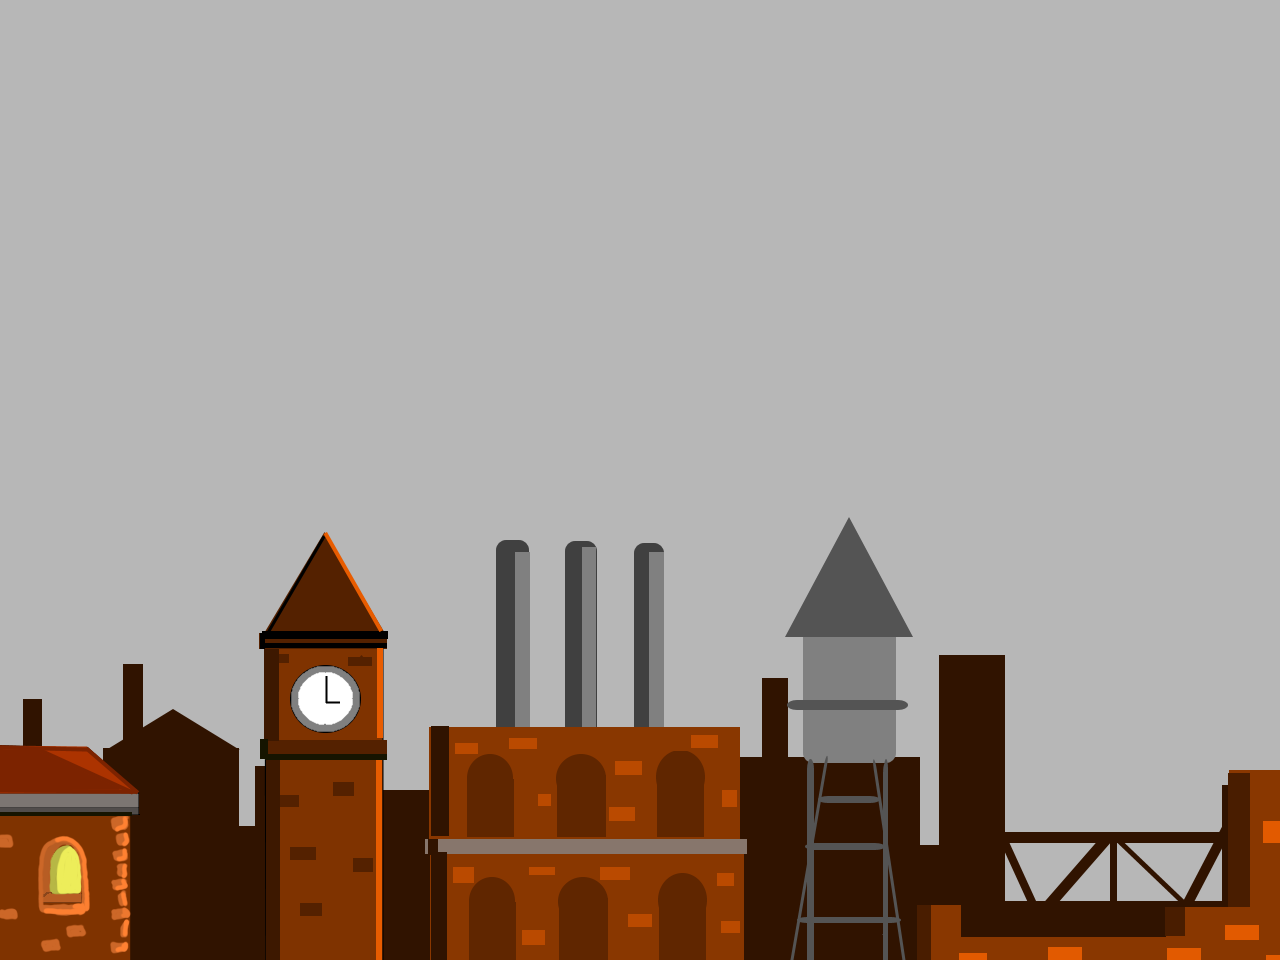
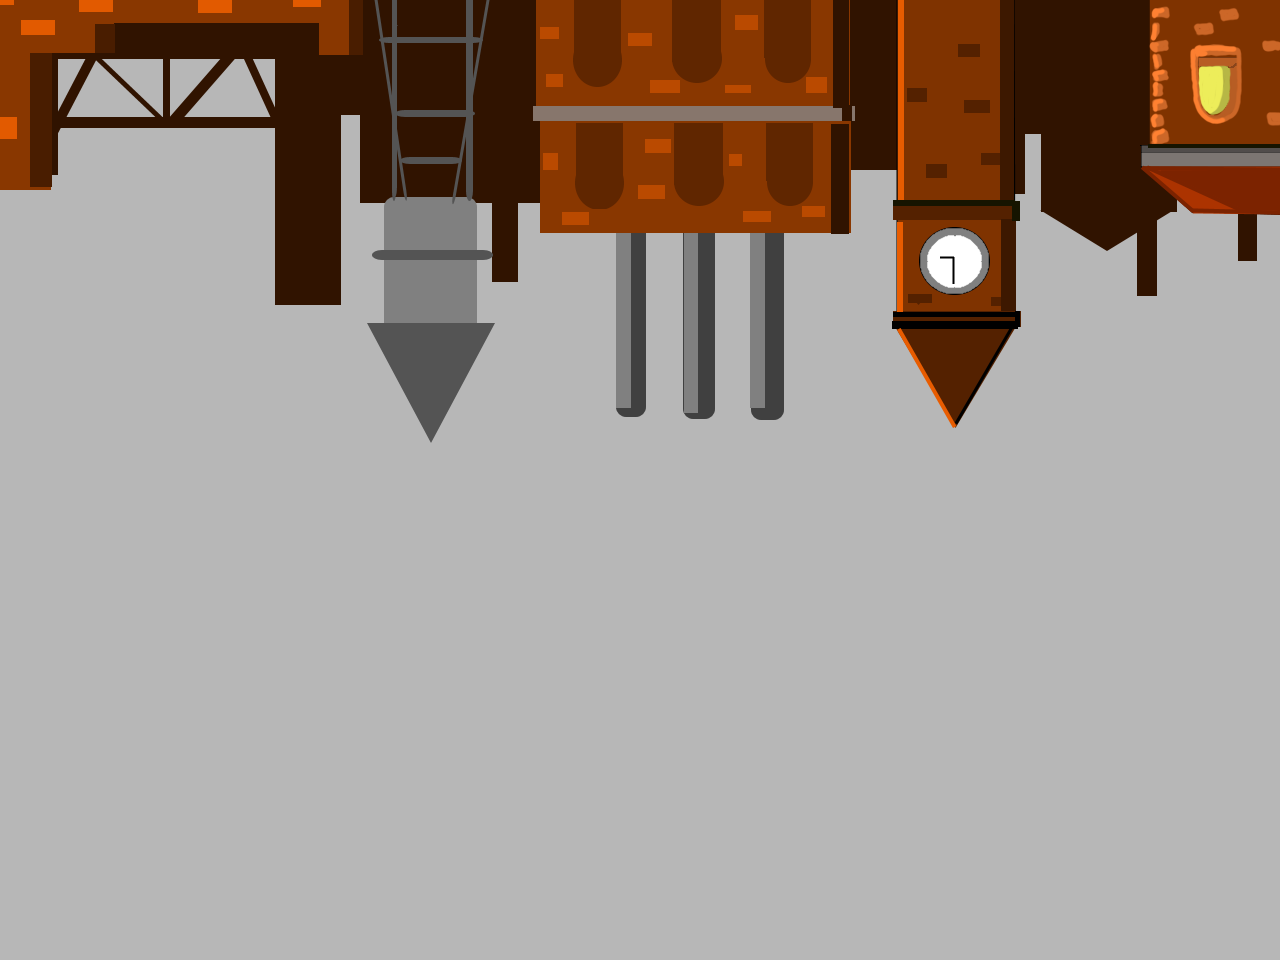
Add files missed in previous commit

diff --git a/Skystone/ScrollingSpriteRenderer.cpp b/Skystone/ScrollingSpriteRenderer.cpp
@@ -2,8 +2,7 @@
 #include "GameWindow.h"
 #include "GameConstants.h"
 #include "Log.h"
-#include <cmath>
-
+#include <algorithm>
 
 namespace
 {
@@ -25,23 +24,29 @@ namespace
 			return val + changeBy;
 	}
 
-	void modDrawRect(SDL_Rect* rect, int x_, int y_, int w_, int h_)
+	void modDrawRect(SDL_Rect* rect, int x_, int y_, int w_, int h_, int maxW)
 	{
-		rect->x = incWithinBound(rect->x, x_, Constants::SCREEN_WIDTH);
+		rect->x = incWithinBound(rect->x, x_, maxW);
 		rect->y = incWithinBound(rect->y, y_, Constants::SCREEN_HEIGHT);
-		rect->w = incWithinBound(rect->w, w_, Constants::SCREEN_WIDTH);
-		rect->h = incWithinBound(rect->h, h_, Constants::SCREEN_HEIGHT);
+		rect->w = incWithinBound(rect->w, w_, maxW); 
+		rect->h = incWithinBound(rect->h, h_, Constants::SCREEN_HEIGHT);	
+	}
+
+	void modNonZeroDrawRect(SDL_Rect* rect, int x_, int y_, int w_, int h_, int maxW)
+	{
+		if (rect->w != 0 && rect->h != 0)
+			modDrawRect(rect, x_, y_, w_, h_, maxW);
 	}
 
 }
 
 ScrollingSpriteRenderer::ScrollingSpriteRenderer(GameObject& owner, TextureSheet* textureSheet, int layerNum)
 	: SpriteRenderer(owner, textureSheet),
-	drawSrcCopy_(*drawSrc_),
-	drawSrcLeft_{ 0,0,0,0 },
-	drawDestLeft_{ 0, 0,0,0 },
-	layerNum_{layerNum},
+	drawSrc1_(*drawSrc_),
+	drawSrc2_{ 0,0,0,0 },
+	drawDest2_{ 0, 0,0,0 },
 	oldCameraPos_{textureSheet_->getWindow()->getCamera().getPos()},
+	layerNum_{layerNum},
 	scale_{2}
 {
 	checkDims();
@@ -55,12 +60,9 @@ ScrollingSpriteRenderer::~ScrollingSpriteRenderer()
 void ScrollingSpriteRenderer::update(Level& level)
 {
 	Point currCamera = textureSheet_->getWindow()->getCamera().getPos();
-	if (cameraValid())
-	{
-		advanceRects();
-	}
-	MySDL_RenderCopy(textureSheet_->getWindow()->getRenderer(), textureSheet_->getTexture(), &drawSrcCopy_, &drawDest_);
-	MySDL_RenderCopy(textureSheet_->getWindow()->getRenderer(), textureSheet_->getTexture(), &drawSrcLeft_, &drawDestLeft_);
+	advanceRects();
+	MySDL_RenderCopy(textureSheet_->getWindow()->getRenderer(), textureSheet_->getTexture(), &drawSrc1_, &drawDest_);
+	MySDL_RenderCopy(textureSheet_->getWindow()->getRenderer(), textureSheet_->getTexture(), &drawSrc2_, &drawDest2_);
 	updateCamPos();
 }
 
@@ -68,48 +70,61 @@ void ScrollingSpriteRenderer::setInitialRects()
 {
 	Point cameraPos = textureSheet_->getWindow()->getCamera().getPos();
 
-	int overflow = drawSrcCopy_.w % Constants::SCREEN_WIDTH;
+	int overflow = drawSrc1_.w % Constants::SCREEN_WIDTH;
 	// overflow is how far too left it is
-	setRect(&drawSrcCopy_,
+
+	setRect(&drawSrc1_,
 		-overflow,
 		0,
 		Constants::SCREEN_WIDTH + overflow,
-		textureSheet_->getFull()->h);
+		std::min<int>(textureSheet_->getFull()->h, Constants::SCREEN_HEIGHT));
 
-	setRect(&drawDest_, 0, 0, drawSrcCopy_.w, drawSrcCopy_.h);
+	setRect(&drawDest_, 0, 0, drawSrc1_.w, drawSrc1_.h);
 
-	setRect(&drawSrcLeft_, 
-		Constants::SCREEN_WIDTH,
-		textureSheet_->getFull()->y,
+	setRect(&drawSrc2_,
+		drawSrc_->w,
+		0,
 		-overflow,
-		textureSheet_->getFull()->h);
-
-	setRect(&drawDestLeft_,
+		std::min<int>(textureSheet_->getFull()->h, Constants::SCREEN_HEIGHT));
+	setRect(&drawDest2_,
 		0,
 		0,
-		drawSrcLeft_.w,
-		drawSrcLeft_.h);
+		drawSrc2_.w,
+		drawSrc2_.h);
 }
 
 
 void ScrollingSpriteRenderer::checkDims()
 {
-	if ((drawSrc_->w != Constants::SCREEN_WIDTH) ||
-		(drawSrc_->h != Constants::SCREEN_HEIGHT))
+	if (drawSrc_->w < Constants::SCREEN_WIDTH || 
+		drawSrc_->h < Constants::SCREEN_HEIGHT)
 	{
 		LOG << "Warning: ScrollingSpriteRenderer behavior undefined for \
-			sprites != screen size";
+			sprites < screen size";
 	}
 }
 
 void ScrollingSpriteRenderer::advanceRects()
 {
 	int delx = findDelX();
-	modDrawRect(&drawSrcCopy_, 0, 0, -delx, 0);
-	modDrawRect(&drawDest_, delx, 0, -delx, 0);
+	int maxW = drawSrc_->w;
 
-	modDrawRect(&drawSrcLeft_, -delx, 0, delx, 0);
-	modDrawRect(&drawDestLeft_, 0, 0, delx, 0);
+	if (rectAtEdge(delx)) 
+	{
+    	modDrawRect(&drawSrc1_, 0, 0, -delx, 0, maxW);
+		modDrawRect(&drawDest_, delx, 0, -delx, 0, maxW);
+
+		modDrawRect(&drawSrc2_, -delx, 0, delx, 0, maxW);
+		modDrawRect(&drawDest2_, 0, 0, delx, 0, maxW);
+	}
+	else
+	{
+		modNonZeroDrawRect(&drawSrc1_, -delx, 0, 0, 0, maxW);
+		modNonZeroDrawRect(&drawDest_, 0, 0, 0, 0, maxW);
+
+		modNonZeroDrawRect(&drawSrc2_, -delx, 0, 0, 0, maxW);
+		modNonZeroDrawRect(&drawDest2_, 0, 0, 0, 0, maxW);
+	}
 }
 
 int ScrollingSpriteRenderer::findDelX()
@@ -127,9 +142,11 @@ void ScrollingSpriteRenderer::updateCamPos()
 	oldCameraPos_ = textureSheet_->getWindow()->getCamera().getPos();
 }
 
-bool ScrollingSpriteRenderer::cameraValid()
+bool ScrollingSpriteRenderer::rectAtEdge(int dx)
 {
-	Point currCamera = textureSheet_->getWindow()->getCamera().getPos();
-	int change = oldCameraPos_.x - currCamera.x;
-	return std::abs(change) < 10;
+	int maxW = drawSrc_->w;
+
+	bool firstRect = (drawSrc1_.x - dx) < 0 || (drawSrc1_.x + dx < 0);
+	bool secondRect = (drawSrc2_.x - dx) < 0 || (drawSrc1_.x + dx) < 0;
+	return firstRect || secondRect;
 }

diff --git a/Skystone/ScrollingSpriteRenderer.h b/Skystone/ScrollingSpriteRenderer.h
@@ -15,11 +15,11 @@ public:
 
 
 private:
-	SDL_Rect drawSrcCopy_;
-	SDL_Rect drawSrcLeft_;
-	SDL_Rect drawDestLeft_;
-	int layerNum_;
+	SDL_Rect drawSrc1_;
+	SDL_Rect drawSrc2_;
+	SDL_Rect drawDest2_;
 	Point oldCameraPos_;
+	int layerNum_;
 	int scale_;
 
 	void setInitialRects();
@@ -27,7 +27,7 @@ private:
 	int findDelX();
 	void advanceRects();
 	void updateCamPos();
-	bool cameraValid();
+	bool rectAtEdge(int dx);
 };
 
 #endif //SCROLLING_SPRITE_RENDERER_H

diff --git a/Skystone/LevelLoader.cpp b/Skystone/LevelLoader.cpp
@@ -43,7 +43,7 @@ void LevelLoader::load(const int levelID)
 	std::shared_ptr<Level> level = std::make_shared<Level>(levelID);
 	level->setLevelManager(levelManager_);
 	level->setGameObjectBuilder(&gameObjectBuiler_);
-	level->setBackgroundFromSprite(loadSprite(textureLoader_));
+	level->setBackground();
 
 	
 	loadEnemies(generateFilePath("Enemies", levelID), level.get());

diff --git a/Skystone/Level.cpp b/Skystone/Level.cpp
@@ -52,7 +52,7 @@ void Level::setGameObjectBuilder(GameObjectBuilder* gameObjectBuilder)
 	gameObjectBuilder_ = gameObjectBuilder;
 }
 
-void Level::setBackgroundFromSprite(std::shared_ptr<SpriteRenderer> spriteRenderer)
+void Level::setBackground()
 {
 	background_ = std::make_shared<GameObject>();
 	background_->setType(GameObject::Type::BACKGROUND);

diff --git a/Skystone/Level.h b/Skystone/Level.h
@@ -29,7 +29,7 @@ public:
 
 	void setLevelManager(LevelManager* levelManager);
 	void setGameObjectBuilder(GameObjectBuilder* gameObjectBuilder);
-	void setBackgroundFromSprite(std::shared_ptr<SpriteRenderer> spriteRenderer);
+	void setBackground();
 
 	void setPlayer(GameObject* player, Point startPosition);
 	Point getPlayerPos();
